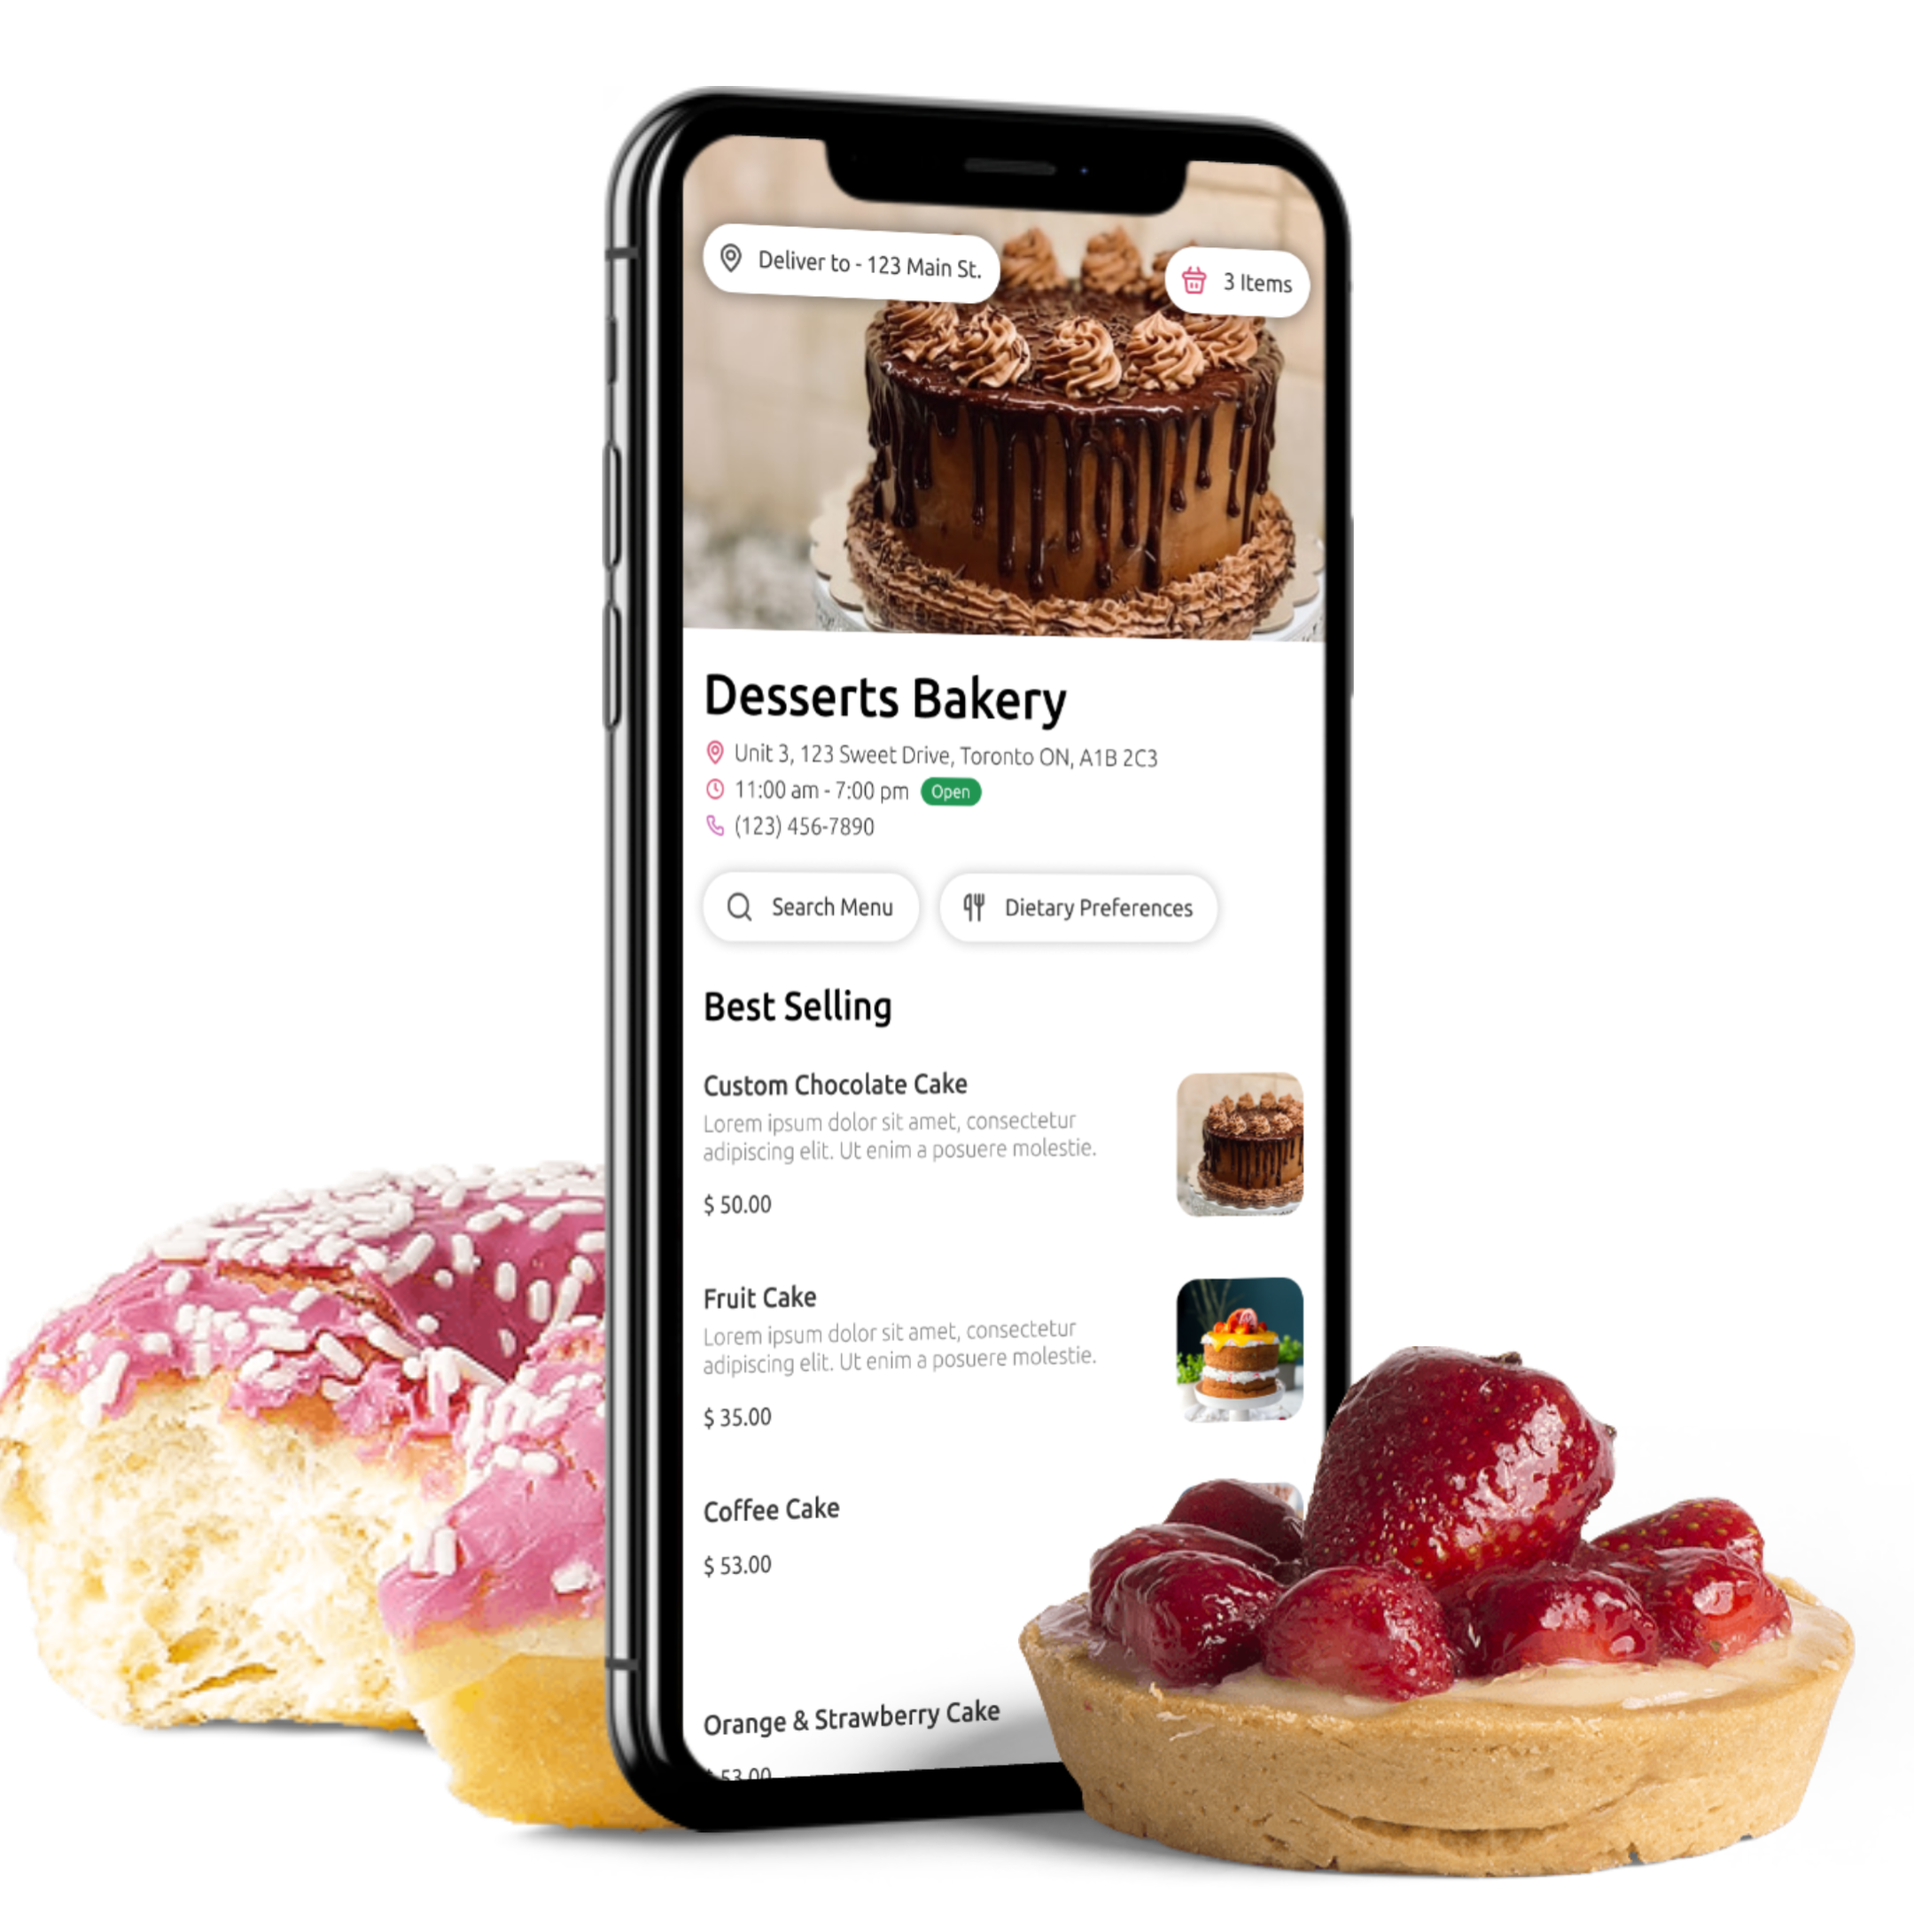
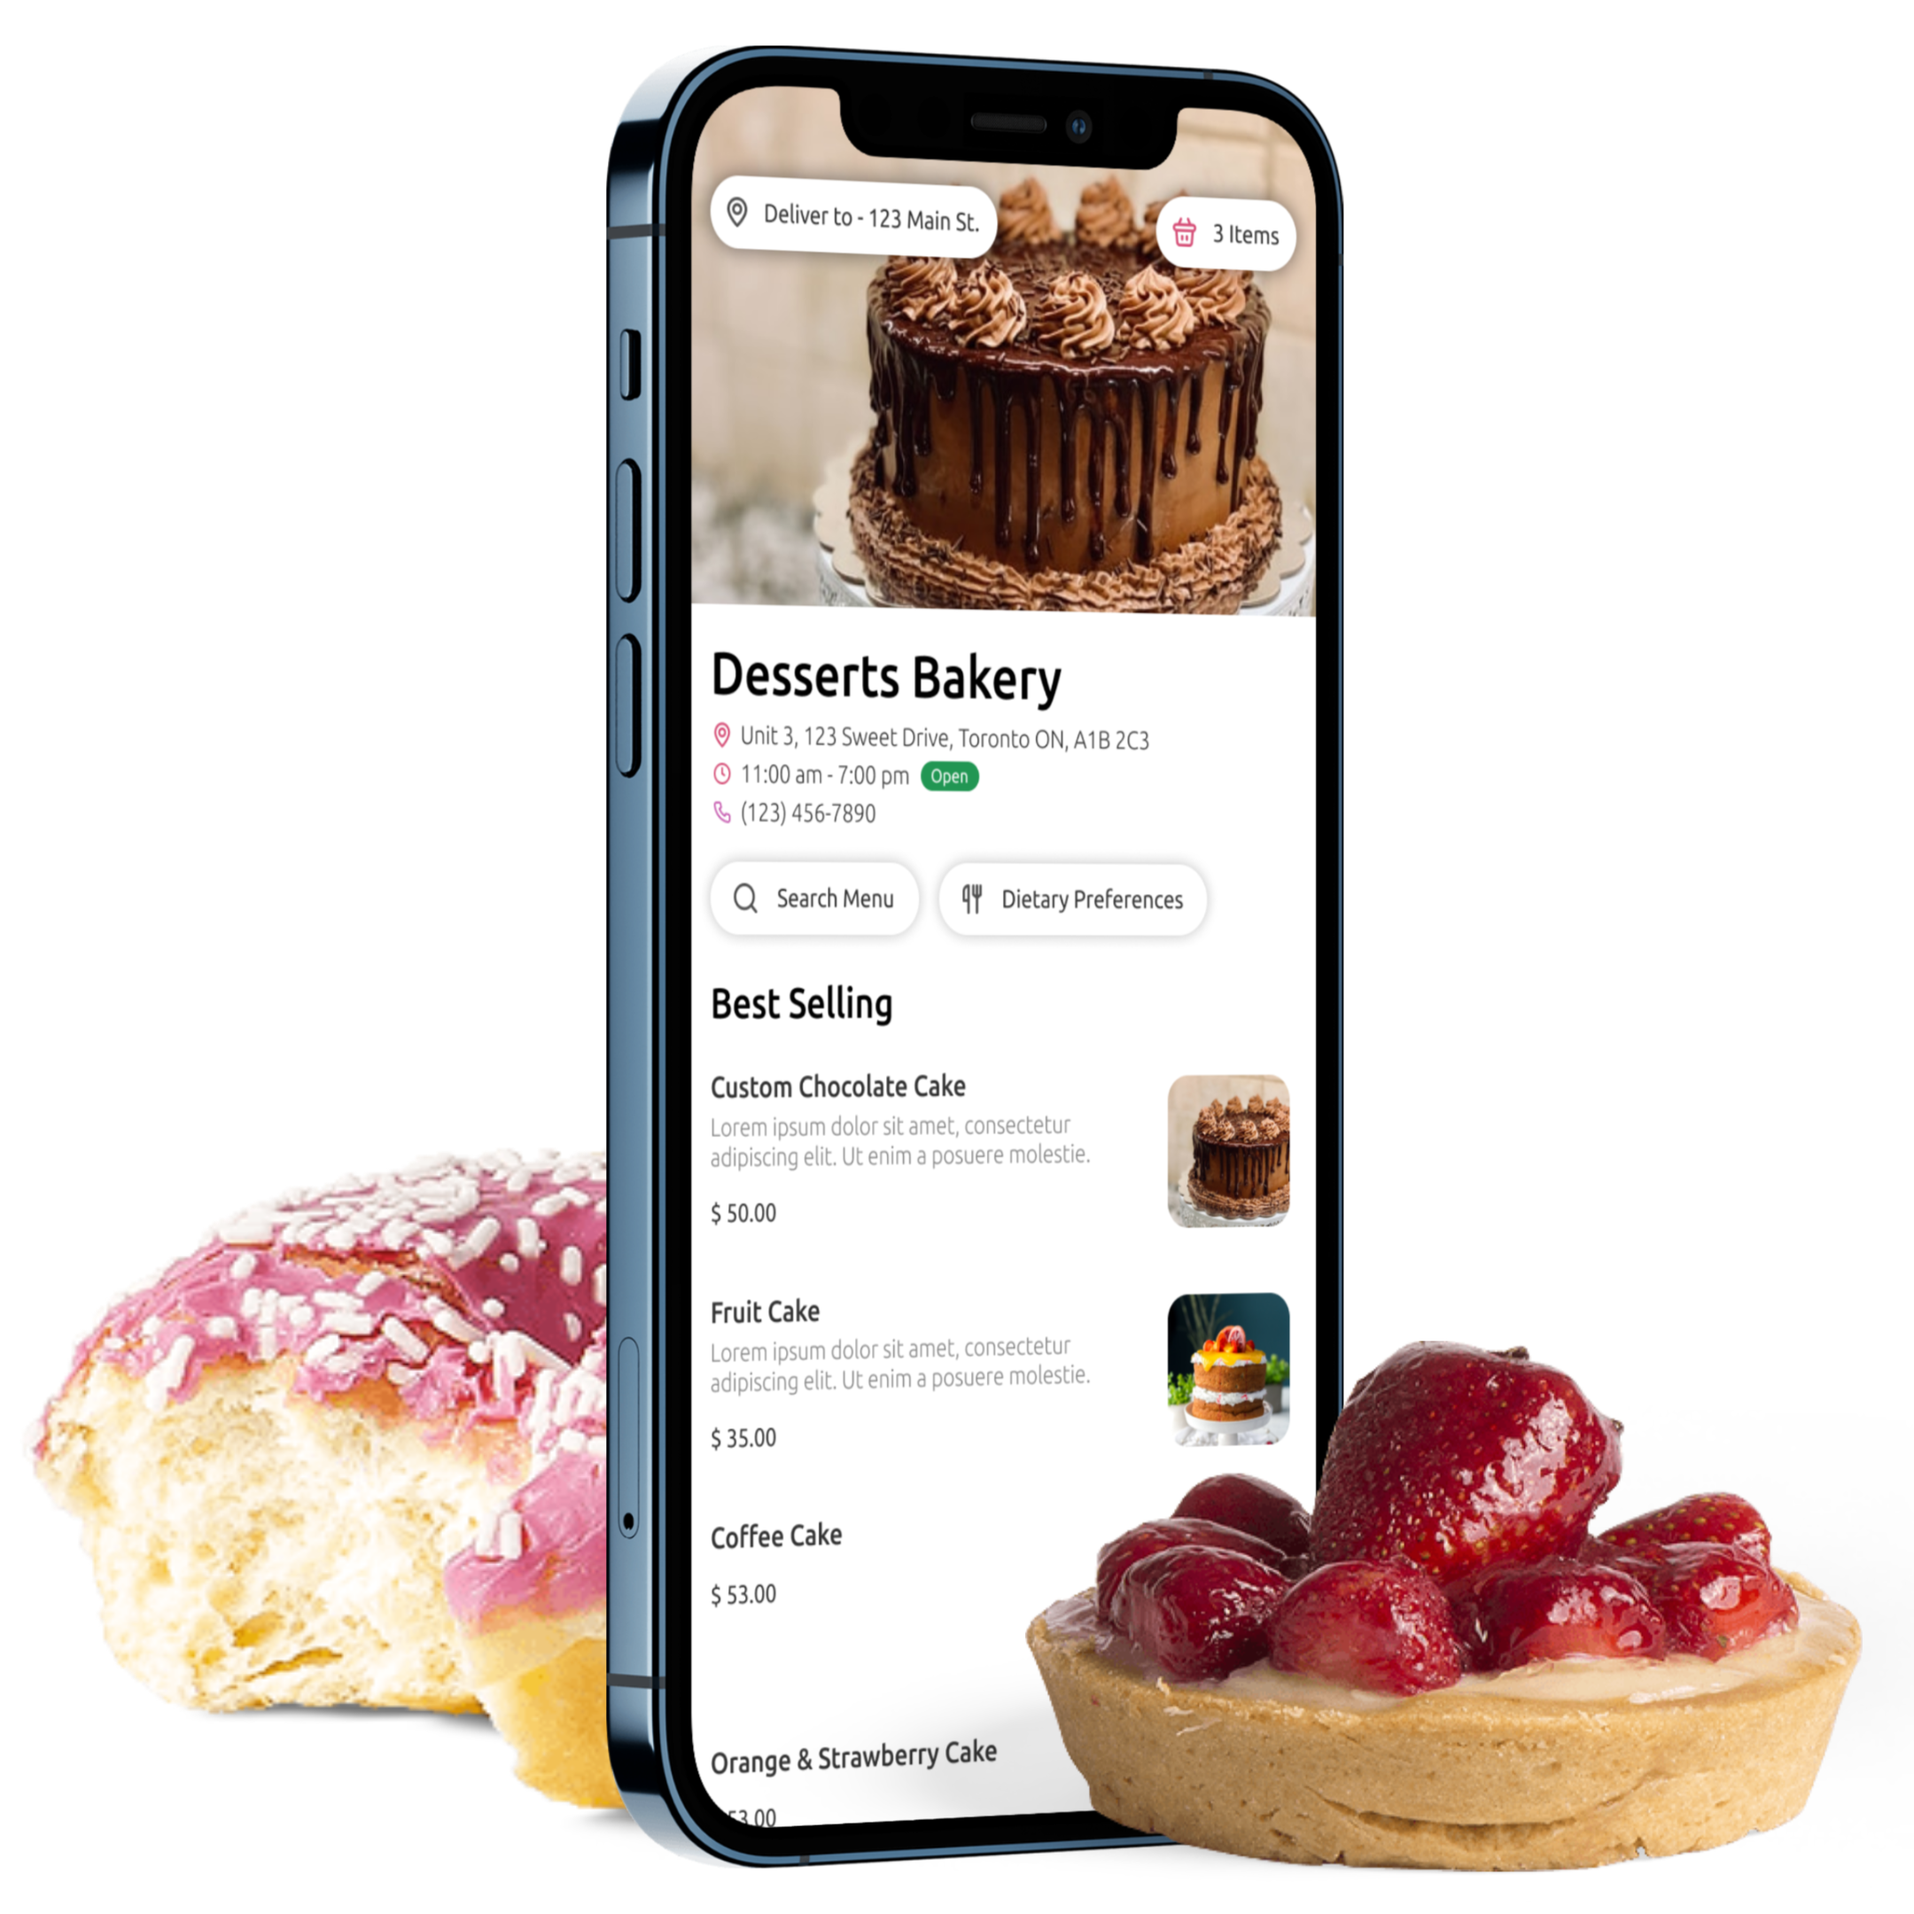
Domain routing with CNAME File Updated the Landing Image to iPhone 12

Changed region(s): [[0.0, 0.0, 0.9926, 0.9926], [0.4963, 0.4653, 0.6204, 0.4963]]

diff --git a/gatsby-config.js b/gatsby-config.js
@@ -1,5 +1,5 @@
 module.exports = {
-  pathPrefix: "/desserts-app-marketing",
+  pathPrefix: "/",
   siteMetadata: {
     title: "Desserts App Marketing",
     menuLinks:[
@@ -19,7 +19,8 @@ module.exports = {
       //     name:'page3',
       //     link:'/page-3'
       // },
-    ]
+    ],
+    siteUrl: 'http://www.desserts.app/',
   },
   plugins: [
     "gatsby-plugin-image",
@@ -37,6 +38,7 @@ module.exports = {
         crossOrigin: `use-credentials`,
       },
     },
+    'gatsby-plugin-cname',
     // {
     //   resolve: "gatsby-plugin-google-analytics",
     //   options: {
